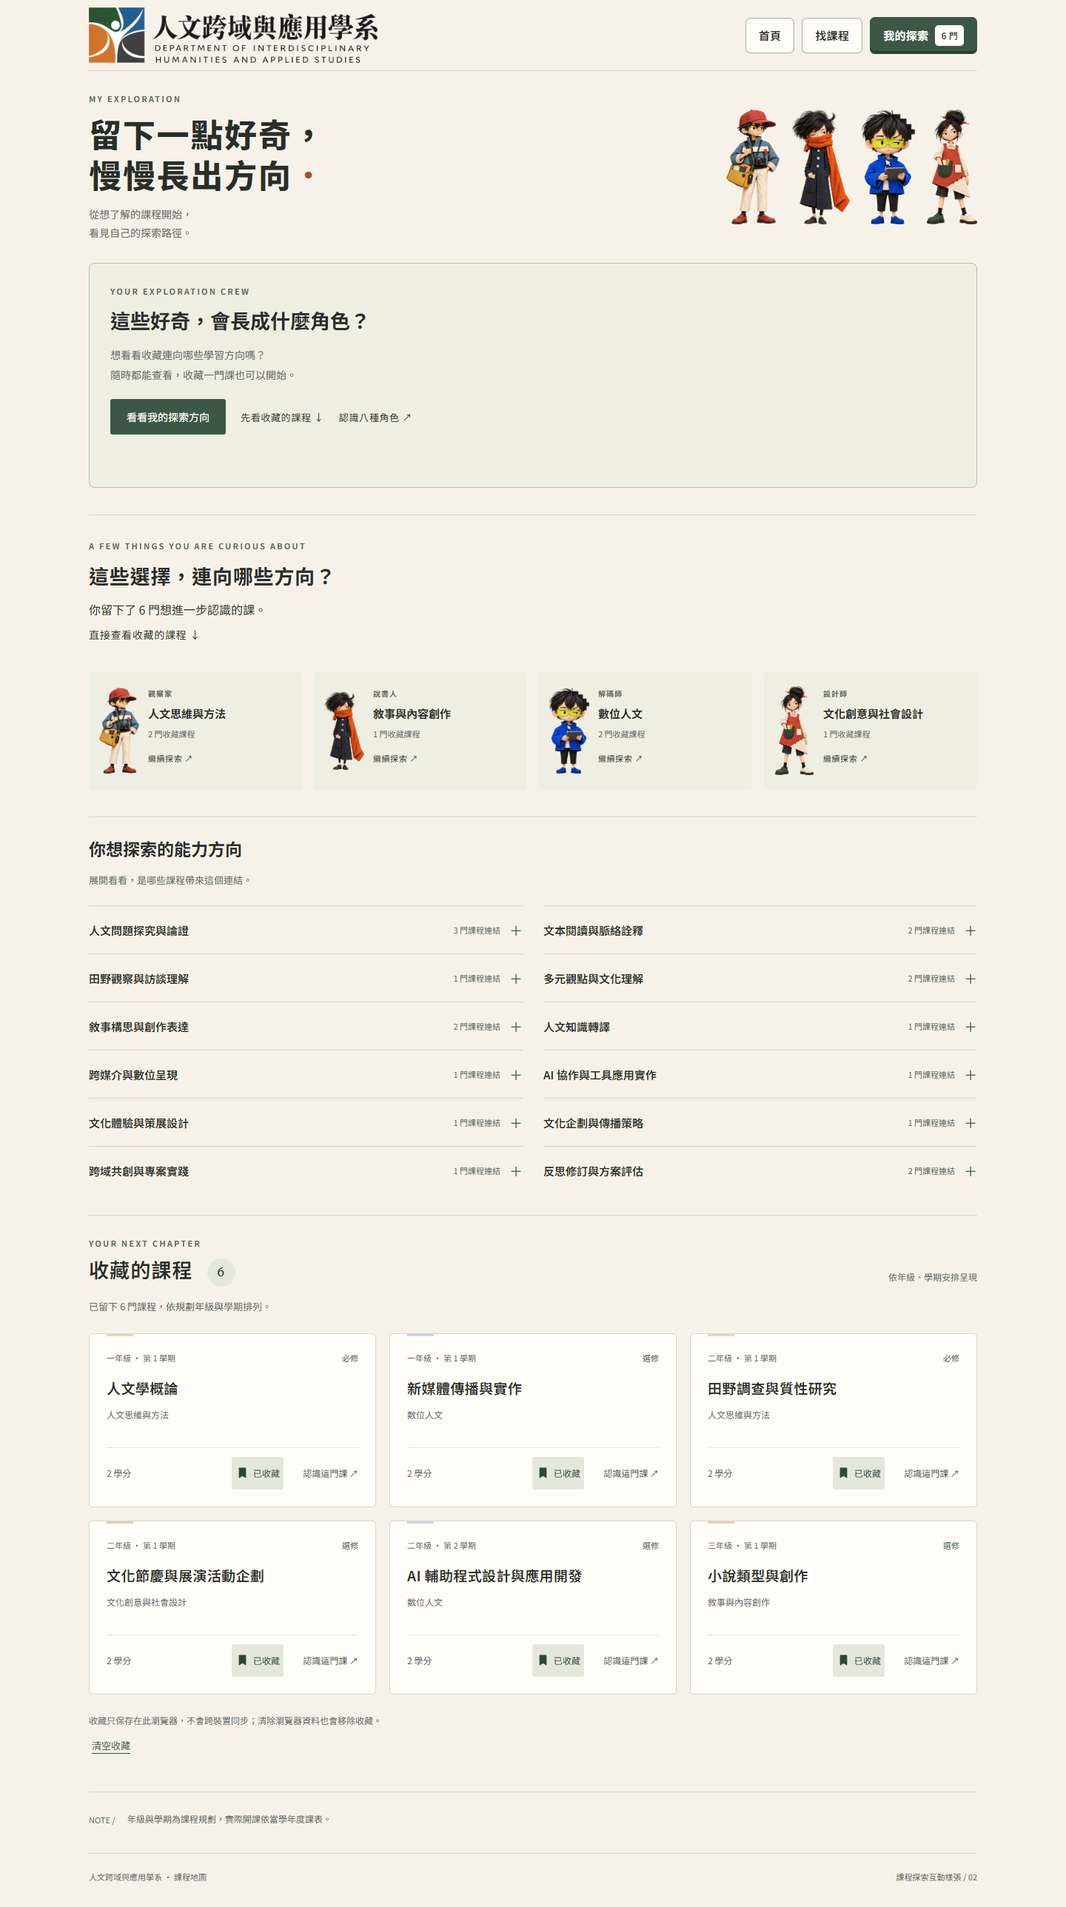
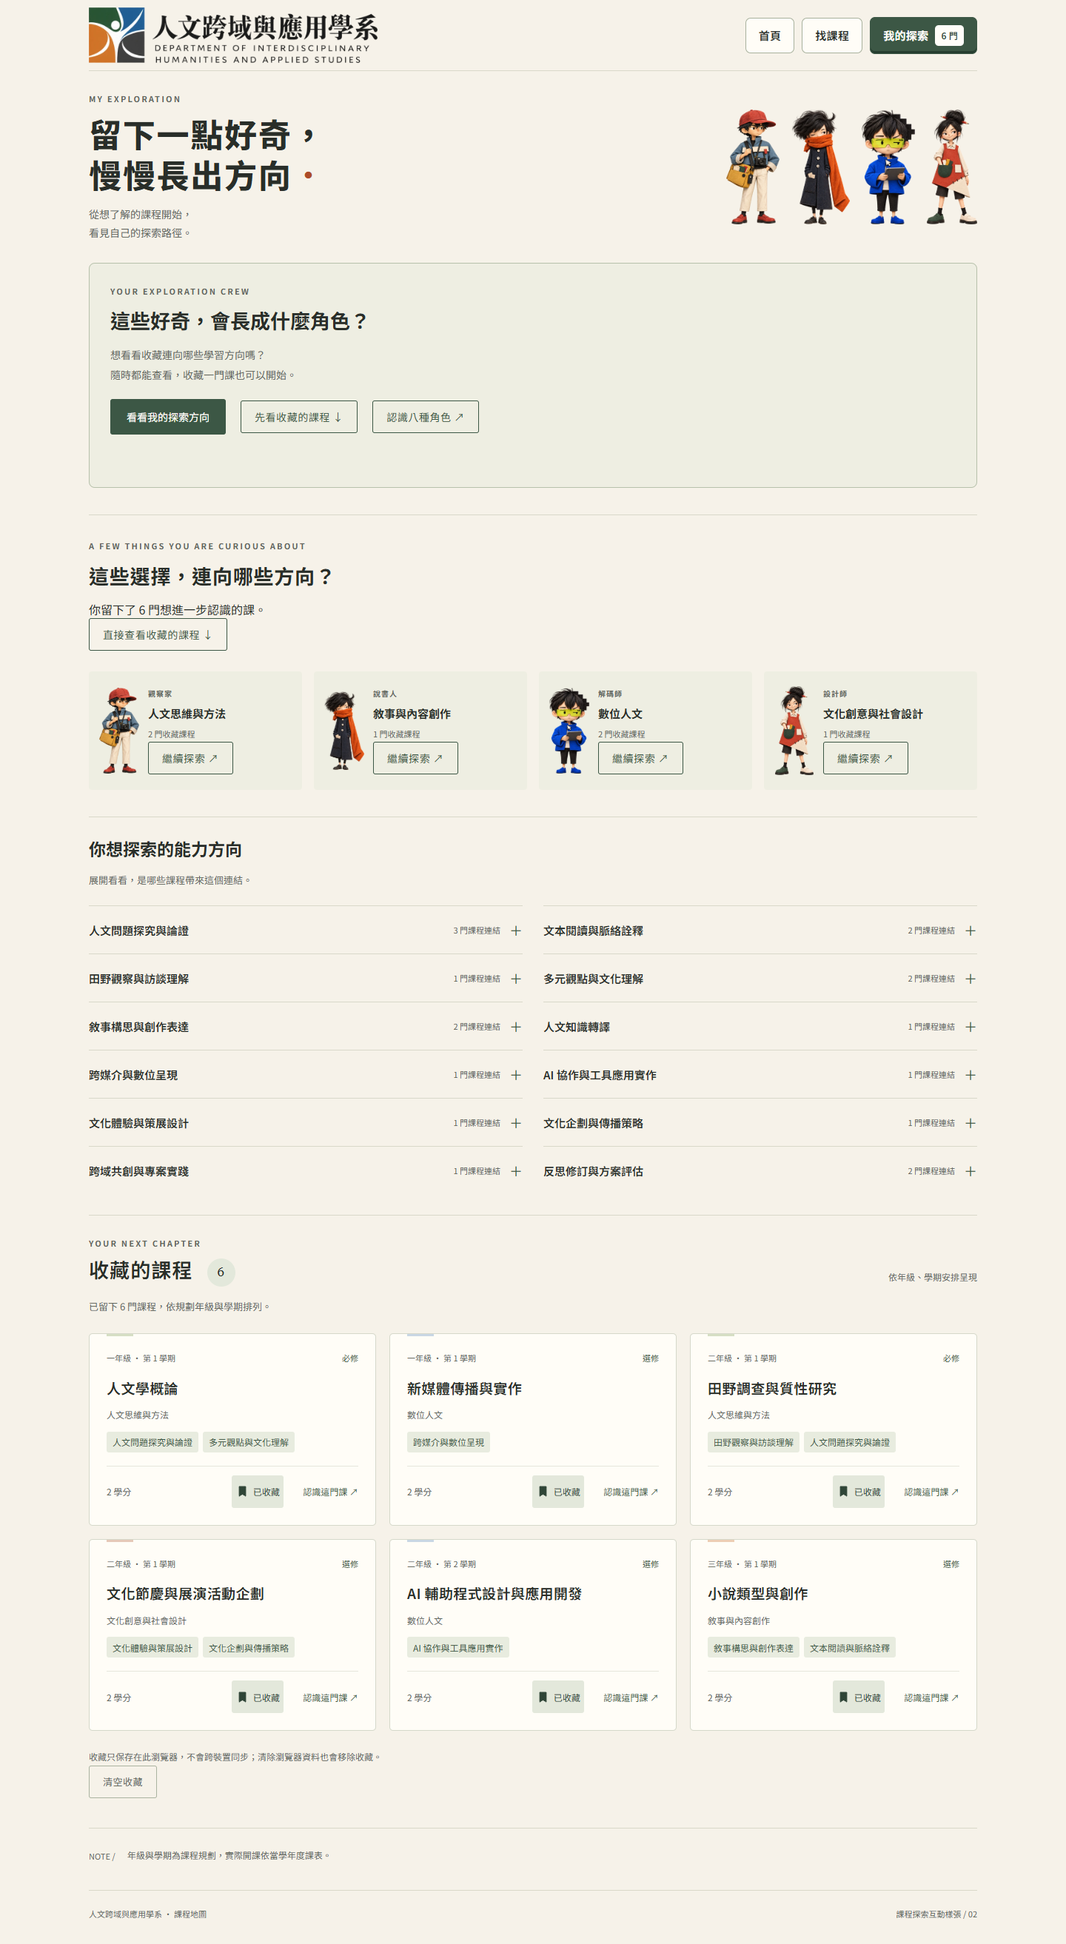
feat(prototype): stronger hover, secondary buttons, role course combos, course abilities
- Domain portraits scale 1.12, role cards 1.1 on hover/focus/press (220ms);
  reduced motion falls back to tint only
- Low-visibility text links become secondary buttons
- Role dialog lists abilities, core and extended courses linking to course detail
- Every course card shows its core ability names; detail lists primary and
  extended abilities with behaviours and outputs; filter courses by ability
- No ability codes shown on the site; add verify-detail-pass.mjs

diff --git a/doc/design/character-home-20261011/style.css b/doc/design/character-home-20261011/style.css
@@ -5,3 +5,48 @@
 @media(max-width:700px){.wrap{width:calc(100% - 40px)}.masthead{min-height:86px;gap:14px}.logo{width:245px;max-width:70%}.text-link{font-size:12px;gap:5px}.hero{padding:34px 0 30px}.eyebrow{font-size:10px;letter-spacing:.13em}h1{font-size:51px}.lead{font-size:13px;letter-spacing:.02em;margin-top:10px}.section-line h2{font-size:12px}.index{margin-right:8px}.desktop-hint{display:none}.domain-tabs{display:grid;grid-template-columns:repeat(4,1fr);gap:5px;margin-top:17px}.domain-tabs button{background:transparent;border-radius:3px;min-height:44px;font-size:13px;padding:8px 0;border:1px solid var(--line)}.domain-tabs button[aria-pressed=true]{background:var(--green);color:white;border-color:var(--green)}.domain-track{display:flex;overflow-x:auto;gap:16px;scroll-snap-type:x mandatory;overscroll-behavior-x:contain;padding:20px 10% 0;scroll-padding-inline:10%;scrollbar-width:none;margin-inline:-20px}.domain-track::-webkit-scrollbar{display:none}.domain-card{flex:0 0 86%;scroll-snap-align:center;padding-top:12px;padding-bottom:12px}.portrait{height:310px;max-width:270px;margin-bottom:18px}.character-name{font-size:24px}.domain-sub{font-size:12px}.selected-label{margin-top:6px}.mobile-controls{display:flex;justify-content:space-between;align-items:center;gap:12px;margin-top:16px;font-size:11px;color:var(--muted)}.mobile-controls .swipe-hint{margin-left:auto}.domain-detail{grid-template-columns:1fr;gap:14px;padding:26px 0;min-height:240px}.domain-detail h3{font-size:22px}.domain-detail p:not(.detail-label){font-size:14px}.domain-detail .primary{justify-self:start}.profession-section{margin-top:40px;padding:32px 0 24px}.profession-heading{align-items:start}.profession-heading h2{font-size:24px;max-width:240px}.profession-heading p:not(.eyebrow){font-size:13px}.gallery-controls{gap:5px;flex-direction:column}.role-track{gap:14px;margin-inline:-5px;padding-top:22px}.role-card{flex-basis:44%;padding-inline:3px}.role-card img{height:220px}.role-card h3{font-size:19px}.role-card p{font-size:11px}.role-note{display:block}.role-note span{display:block;margin-top:6px}.course-entry{align-items:start;flex-direction:column;padding-block:40px;gap:22px}.course-entry h2{font-size:25px}footer{flex-direction:column;gap:5px;padding-bottom:22px}.role-detail{grid-template-columns:1fr;gap:16px}.role-detail img{height:230px}dialog{padding:22px}.course-list li{align-items:start}.course-list small{max-width:95px}.dialog-top{margin-bottom:12px}}
 @media(max-width:700px){.domain-track{padding-inline:20vw;scroll-padding-inline:20vw}.domain-card{flex-basis:60vw}.role-card{flex-basis:40%}.profession-heading h2{font-size:22px;text-wrap:balance}}
 @media(prefers-reduced-motion:reduce){*,*:before,*:after{transition:none!important;animation:none!important;scroll-behavior:auto!important}.domain-card:hover .portrait img,.domain-card[aria-pressed=true] .portrait img,.role-card:hover img{transform:none}}
+
+/* 2026-10-11 detail pass: stronger touch feedback (UI-13-001/019/021) */
+.domain-card .portrait img{transition:transform 220ms var(--ease)}
+.domain-card .portrait:before{transition:transform 220ms var(--ease),opacity 220ms var(--ease)}
+.role-card img{transform-origin:center bottom;transition:transform 220ms var(--ease)}
+.role-card h3{transition:color 220ms var(--ease)}
+@media(hover:hover){.domain-card:hover .portrait img{transform:translateY(-6px) scale(1.12)}.domain-card:hover .portrait:before{transform:scale(1.06);opacity:.85}.role-card:hover img{transform:translateY(-8px) scale(1.1)}.role-card:hover h3{color:var(--green)}}
+.domain-card:focus-visible .portrait img,.domain-card:active .portrait img{transform:translateY(-6px) scale(1.12)}
+.domain-card:focus-visible .portrait:before,.domain-card:active .portrait:before{transform:scale(1.06);opacity:.85}
+.role-card:focus-visible img,.role-card:active img{transform:translateY(-8px) scale(1.1)}
+.role-card:focus-visible h3,.role-card:active h3{color:var(--green)}
+/* Secondary buttons replace low-visibility text links (UI-08-001, UI-16-009) */
+.button-secondary{display:inline-flex;align-items:center;justify-content:center;gap:12px;min-height:44px;padding:9px 18px;border:1.5px solid var(--green);border-radius:3px;background:transparent;color:var(--green);font-size:14px;letter-spacing:.04em;line-height:1.5;text-decoration:none;white-space:nowrap;cursor:pointer;transition:background 180ms var(--ease),color 180ms var(--ease)}
+.button-secondary:hover{background:#e3e8da;text-decoration:none}
+.button-secondary:active{background:var(--green);color:#fffdf8}
+.button-secondary:focus-visible{outline:3px solid #315c8e;outline-offset:3px}
+.button-secondary.is-quiet{border-color:#aab3a0;color:var(--muted);font-size:13px}
+.button-secondary:disabled{opacity:.55;cursor:not-allowed;background:transparent;color:var(--muted)}
+/* Role dialog: abilities and course combination */
+#preview{width:min(880px,calc(100% - 32px))}
+.ability-tags{display:flex;flex-wrap:wrap;gap:6px;list-style:none;padding:0;margin:0}
+.ability-tags li{display:inline-flex;align-items:center;min-height:28px;padding:3px 8px;border-radius:3px;background:#e8ecdf;color:var(--green);font-size:12px;line-height:1.6}
+.role-combo{border-top:1px solid var(--line);margin-top:22px;padding-top:20px}
+.role-combo h3{font-size:16px;line-height:1.6;margin-bottom:10px}
+.role-combo h3 small{font-size:12px;color:var(--muted);font-weight:400;margin-left:8px}
+.role-combo .ability-tags{margin-bottom:6px}
+.course-list{display:grid;grid-template-columns:repeat(2,minmax(0,1fr));gap:8px;list-style:none;padding:0;margin:0}
+.course-chip{display:flex;flex-direction:column;gap:6px;min-height:48px;padding:10px 12px;border:1px solid #cfd3c4;border-radius:4px;background:#fffdf8;color:var(--ink);text-decoration:none;transition:border-color 180ms var(--ease),background 180ms var(--ease)}
+.course-chip:hover{border-color:var(--green);background:#f3f5ec}
+.course-chip:focus-visible{outline:3px solid #315c8e;outline-offset:2px}
+.course-chip strong{font-size:14px;line-height:1.6;font-weight:600}
+.course-chip strong span{font-size:12px;color:var(--muted);font-weight:400;margin-right:8px}
+.course-chip .ability-tags li{min-height:24px;font-size:11px;padding:1px 6px}
+.role-combo details{margin-top:10px}
+.role-combo summary{cursor:pointer;min-height:44px;display:flex;align-items:center;font-size:14px;color:var(--green);font-weight:600}
+.role-combo summary:focus-visible{outline:3px solid #315c8e;outline-offset:3px}
+.role-combo details .course-list{margin-top:6px}
+.role-combo-status{font-size:14px;color:var(--muted);margin-top:16px}
+.dialog-actions{display:flex;flex-wrap:wrap;gap:12px;border-top:1px solid var(--line);margin-top:22px;padding-top:18px}
+@media(max-width:700px){.course-list{grid-template-columns:1fr}.button-secondary{min-height:48px}.role-detail img{height:200px}}
+@media(prefers-reduced-motion:reduce){.domain-card .portrait img,.domain-card:hover .portrait img,.domain-card:focus-visible .portrait img,.domain-card:active .portrait img,.role-card img,.role-card:hover img,.role-card:focus-visible img,.role-card:active img{transform:none!important}}
+.masthead .button-secondary{flex:none}
+@media(max-width:700px){.masthead{gap:12px}.masthead .logo{min-width:0;max-width:calc(100% - 118px);height:auto}.masthead .button-secondary{padding:8px 12px;font-size:13px;gap:6px}}
+.course-list>li{border:0;padding:0;margin:0;display:flex}
+.course-list>li>.course-chip{flex:1}

diff --git a/doc/design/character-home-20261011/courses.html b/doc/design/character-home-20261011/courses.html
@@ -6,16 +6,16 @@
 <header class="masthead wrap"><a class="brand-link" href="index.html" aria-label="回到課程地圖首頁"><img class="logo" src="assets/logo.webp" alt="人文跨域與應用學系"></a><nav class="catalog-nav" aria-label="課程探索導覽"><a class="text-link" href="index.html">首頁</a><a class="text-link" id="browse-link" href="courses.html">找課程</a><a class="text-link" id="collection-link" href="courses.html?view=saved">我的探索 <span class="nav-count"><span data-save-count>0</span> 門</span></a></nav></header>
 <main class="wrap catalog-main">
   <section class="catalog-intro" aria-labelledby="catalog-title"><div><p class="eyebrow">FOLLOW YOUR CURIOSITY</p><h1 id="catalog-title">把好奇，變成<br>下一門課<span class="title-dot">．</span></h1><p class="catalog-lead">讀懂一段故事、走進一個地方，或試著做出改變。<br>從 69 門課程裡，找一個想開始的方向。</p></div><div class="intro-side" id="intro-side"></div></section>
-  <section id="role-exploration" class="role-exploration" aria-labelledby="role-exploration-title" aria-busy="false" hidden><p class="eyebrow">YOUR EXPLORATION CREW</p><h2 id="role-exploration-title">這些好奇，會長成什麼角色？</h2><p class="role-intro">想看看收藏連向哪些學習方向嗎？<br>隨時都能查看，收藏一門課也可以開始。</p><div class="role-actions"><button id="show-role-results" class="primary" type="button">看看我的探索方向</button><a class="text-link" href="#results-title">先看收藏的課程 ↓</a><a class="text-link" href="index.html#profession-title">認識八種角色 ↗</a></div><p id="role-status" class="role-status" role="status" aria-live="polite" aria-atomic="true"></p><div id="role-output" class="role-output" hidden></div></section>
+  <section id="role-exploration" class="role-exploration" aria-labelledby="role-exploration-title" aria-busy="false" hidden><p class="eyebrow">YOUR EXPLORATION CREW</p><h2 id="role-exploration-title">這些好奇，會長成什麼角色？</h2><p class="role-intro">想看看收藏連向哪些學習方向嗎？<br>隨時都能查看，收藏一門課也可以開始。</p><div class="role-actions"><button id="show-role-results" class="primary" type="button">看看我的探索方向</button><a class="button-secondary" href="#results-title">先看收藏的課程 ↓</a><a class="button-secondary" href="index.html#profession-title">認識八種角色 ↗</a></div><p id="role-status" class="role-status" role="status" aria-live="polite" aria-atomic="true"></p><div id="role-output" class="role-output" hidden></div></section>
   <section class="filter-panel" aria-labelledby="filter-title">
-    <div class="filter-heading"><h2 id="filter-title"><span class="index">01 /</span> 你想從哪裡開始？</h2><button class="reset text-button" type="button">清除全部條件 ↺</button></div>
+    <div class="filter-heading"><h2 id="filter-title"><span class="index">01 /</span> 你想從哪裡開始？</h2><button class="reset button-secondary is-quiet" type="button">清除全部條件 ↺</button></div>
     <form id="search-form" role="search"><label for="search">搜尋課程名稱</label><div class="search-row"><input id="search" type="search" placeholder="例如：故事、地方、AI" autocomplete="off"><button class="primary" type="submit">搜尋 <span aria-hidden="true">↗</span></button></div></form>
     <fieldset class="domain-filter"><legend>探索領域 <span>可複選</span></legend><div class="domain-options" id="domain-options"></div></fieldset>
-    <div class="filter-bottom"><div class="select-group"><label for="year">年級安排</label><select id="year"><option value="">全部年級</option><option value="1">一年級</option><option value="2">二年級</option><option value="3">三年級</option><option value="4">四年級</option></select></div><div class="select-group"><label for="type">課程性質</label><select id="type"><option value="">必修與選修</option><option value="required">必修</option><option value="elective">選修</option></select></div><p class="filter-help">領域符合其中之一；年級、性質與課名須同時符合。</p></div>
+    <div class="filter-bottom"><div class="select-group"><label for="year">年級安排</label><select id="year"><option value="">全部年級</option><option value="1">一年級</option><option value="2">二年級</option><option value="3">三年級</option><option value="4">四年級</option></select></div><div class="select-group"><label for="type">課程性質</label><select id="type"><option value="">必修與選修</option><option value="required">必修</option><option value="elective">選修</option></select></div><div class="select-group"><label for="ability">培養能力</label><select id="ability"><option value="">全部能力</option></select></div><p class="filter-help">領域符合其中之一；年級、性質、能力與課名須同時符合。</p></div>
   </section>
   <section id="collection-summary" class="collection-summary" aria-label="收藏課程連結的探索方向" hidden></section>
   <section class="results-section" aria-labelledby="results-title" aria-busy="true" id="results-section"><div class="results-heading"><div><p class="eyebrow">YOUR NEXT CHAPTER</p><h2 id="results-title" tabindex="-1">課程一覽 <span id="result-number">—</span></h2></div><p>依年級、學期安排呈現</p></div><p id="result-status" class="result-status" role="status" aria-live="polite" aria-atomic="true">正在讀取課程資料…</p><div id="results"></div></section>
-  <div class="collection-notices"><p id="collection-feedback" role="status" aria-live="polite" aria-atomic="true"></p><p id="storage-notice"></p><button id="clear-collection" class="text-button" type="button" hidden>清空收藏</button></div>
+  <div class="collection-notices"><p id="collection-feedback" role="status" aria-live="polite" aria-atomic="true"></p><p id="storage-notice"></p><button id="clear-collection" class="button-secondary is-quiet" type="button" hidden>清空收藏</button></div>
   <aside class="catalog-footnote"><span class="index">NOTE /</span><p>年級與學期為課程規劃，實際開課依當學年度課表。</p></aside>
 </main>
 <footer class="wrap"><span>人文跨域與應用學系 · 課程地圖</span><span>課程探索互動樣張 / 02</span></footer>

diff --git a/doc/design/character-home-20261011/courses.css b/doc/design/character-home-20261011/courses.css
@@ -4,3 +4,15 @@
 .catalog-page .masthead{min-height:96px}.catalog-intro{padding-block:28px}.catalog-intro h1{font-size:44px;line-height:1.25;margin-block:10px 14px}.catalog-lead{font-size:14px;line-height:1.8}.mini-crew{height:155px}.filter-panel{padding-block:18px 22px}.filter-heading{margin-bottom:12px}.domain-filter{margin-block:18px}.domain-option{min-height:60px;padding-block:9px}.results-section{padding-top:28px}
 @media(max-width:700px){.catalog-page .masthead{min-height:86px}.catalog-intro{padding-block:24px}.catalog-intro h1{font-size:30px;line-height:1.35}.catalog-lead{font-size:12px}.filter-heading .index{display:inline;margin-right:8px}.filter-heading h2{max-width:none;font-size:14px}.filter-heading .text-button{white-space:nowrap;font-size:11px}.domain-option small{display:none}.domain-option{min-height:52px}.domain-option strong{font-size:12px}.domain-filter{margin-block:16px}.filter-panel{padding-block:16px 20px}.catalog-intro .eyebrow{font-size:9px}.result-status{margin-bottom:18px}}
 @media(prefers-reduced-motion:reduce){.course-card{transition:none}}
+
+/* Course–ability correspondence (UI-08-028, UI-16-009, UI-05-014) */
+.course-card .course-domain{margin-bottom:12px}
+.card-abilities{margin:0 0 18px}
+.ability-group{font-size:13px;letter-spacing:.08em;color:var(--green);margin:22px 0 4px}
+.ability-block dl{display:grid;gap:6px;margin-top:10px}
+.ability-block dl div{display:grid;grid-template-columns:5.5em 1fr;gap:8px;font-size:13px;line-height:1.8}
+.ability-block dt{color:var(--green);font-weight:600}
+.ability-block dd{margin:0;color:var(--muted)}
+.mapping-rationale{margin-top:14px}
+.filter-heading .button-secondary{flex:none}
+@media(max-width:700px){.ability-block dl div{grid-template-columns:1fr;gap:0}}

diff --git a/doc/design/character-home-20261011/index.html b/doc/design/character-home-20261011/index.html
@@ -2,7 +2,7 @@
 <html lang="zh-Hant"><head><meta charset="UTF-8"><meta name="viewport" content="width=device-width, initial-scale=1"><meta name="theme-color" content="#f6f2e9"><title>課程地圖｜人文跨域與應用學系</title><link rel="stylesheet" href="style.css"><script type="module" src="app.mjs"></script></head>
 <body>
 <a class="skip" href="#domains">跳至領域探索</a>
-<header class="masthead wrap"><img class="logo" src="assets/logo.webp" alt="人文跨域與應用學系 Department of Interdisciplinary Humanities and Applied Studies"><a href="courses.html" class="text-link all-courses">全部課程 <span aria-hidden="true">↗</span></a></header>
+<header class="masthead wrap"><img class="logo" src="assets/logo.webp" alt="人文跨域與應用學系 Department of Interdisciplinary Humanities and Applied Studies"><a href="courses.html" class="button-secondary all-courses">全部課程 <span aria-hidden="true">↗</span></a></header>
 <main>
   <section class="hero wrap" aria-labelledby="page-title"><p class="eyebrow">YOUR CURIOSITY, YOUR WAY.</p><h1 id="page-title">課程地圖<span class="title-dot">．</span></h1><p class="lead">從一點好奇出發，找到你想探索的方向。</p></section>
   <section id="domains" class="domains wrap" aria-labelledby="domain-title">

diff --git a/doc/HANDOFF_2026-10-11_CHARACTER_HOMEPAGE.md b/doc/HANDOFF_2026-10-11_CHARACTER_HOMEPAGE.md
@@ -1,5 +1,15 @@
 # 交接｜人物首頁與課程探索樣張
 
+## 最新進度｜細節修正：動效、按鈕、角色課程組合、課程能力對應
+
+依 `doc/ui-design` 術語轉規格（使用者已接受）：
+1. 觸碰回饋（UI-13-001/019/021、UI-15-018）：四領域人物 hover／focus／按下放大 1.12 倍並上移 6px、背景色塊 1.06 倍；八角色 1.1 倍上移 8px、名稱轉深綠；220ms `cubic-bezier(.2,0,0,1)`；減少動態不縮放。
+2. 文字連結改按鈕（UI-08-001、UI-16-009）：新增 `.button-secondary`（深綠外框、44px／手機 48px）與 `.is-quiet` 淡框變體；頁首導覽維持分頁樣式。
+3. 角色視窗（UI-08-043、UI-08-034）：顯示角色會用到的能力、核心課程（最多先列 6 門）與延伸課程（收合）；每門課連到 `courses.html?course=ID` 直接開詳情。資料於首次開啟時讀取 role-data／ability-data／課程。
+4. 課程能力對應（使用者：每門課對應一個以上指標，以課程呈現，不放首頁；只顯示能力名稱、不顯示編號）：課卡顯示核心能力名稱；詳情列主要培養／延伸練習，含定義、怎麼做（核心行為）、可以做出（成果例）；找課新增「培養能力」篩選，網址參數 `ability`。`build-abilities.mjs` 新增 behavior／outputs 欄位。
+
+檢查：新增 `verify-detail-pass.mjs`（9 項，含八角色課程數、深連結、能力篩選、無 H 編號、六寬度三頁無溢出、減少動態），原五個瀏覽器檢查更新後全數通過（`verify-courses` 改為核對主要／延伸能力與課卡標籤）。
+
 ## 最新進度｜角色界線審閱（V0.2）與網站文字去防禦化
 
 使用者審閱決定：

diff --git a/doc/DEPARTMENT_ABILITY_MAPPING_2026-10-11.md b/doc/DEPARTMENT_ABILITY_MAPPING_2026-10-11.md
@@ -205,10 +205,10 @@
 
 ## 4. 後續如何用於網站與角色
 
-- 課程詳情先顯示 1–2 個能力名稱及一行解釋，不把 14 項全部鋪在首頁。
+- （2026-10-11 更新）能力以課程對應呈現：課程卡顯示核心能力名稱；課程詳情列出主要培養與延伸練習，含定義、核心行為與成果例；找課可依能力篩選；角色視窗列出角色會用到的能力。網站只顯示能力名稱，不顯示 H 編號；不在首頁另設 14 項能力區塊。
 - 收藏後顯示「你想探索的能力方向」，不是「你已具備的能力」。
 - 角色配對待這份學系轉譯確認後再定；不能只累計能力出現次數。基礎閱讀及通用能力出現較多，並不等於對應某角色的證據較強。
-- 必須保留子面向：例如 H07 的語文表達不能直接推成語文教學，H08 的整理不能直接推成分析，H13 的排程不能直接推成地方共創。後續資料化與配對需記錄子面向，不能只用 14 個頂層標籤計分。
+- 必須保留子面向：例如 H07 的語文表達不能直接推成語文教學， H08 的資料整理依使用者決定視為包含分析，H13 的排程不能直接推成地方共創。後續資料化與配對需記錄子面向，不能只用 14 個頂層標籤計分。
 - 畢業專題、實習不能因名稱寬泛而標滿所有能力；依實際專題與任務擴充。
 - 本版尚未確定角色計分、能力權重、層級數值或選課建議，亦未接入網站。
 
